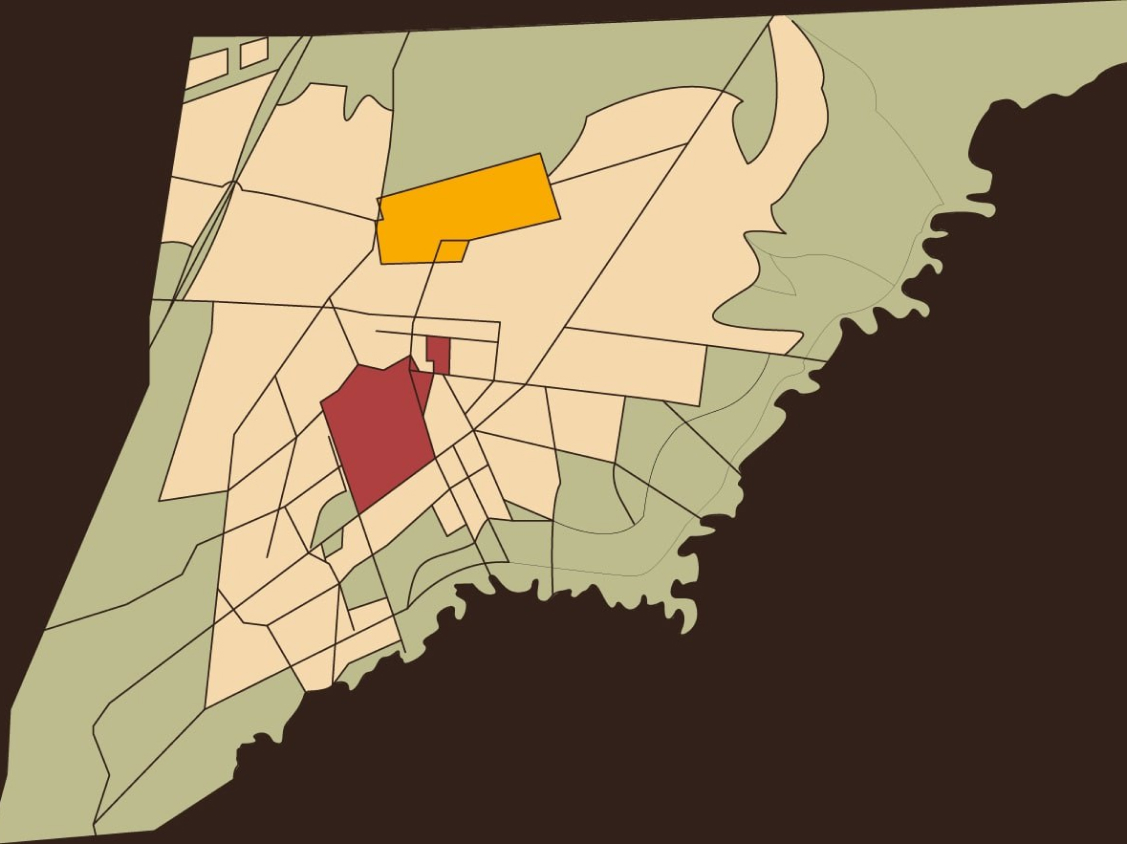
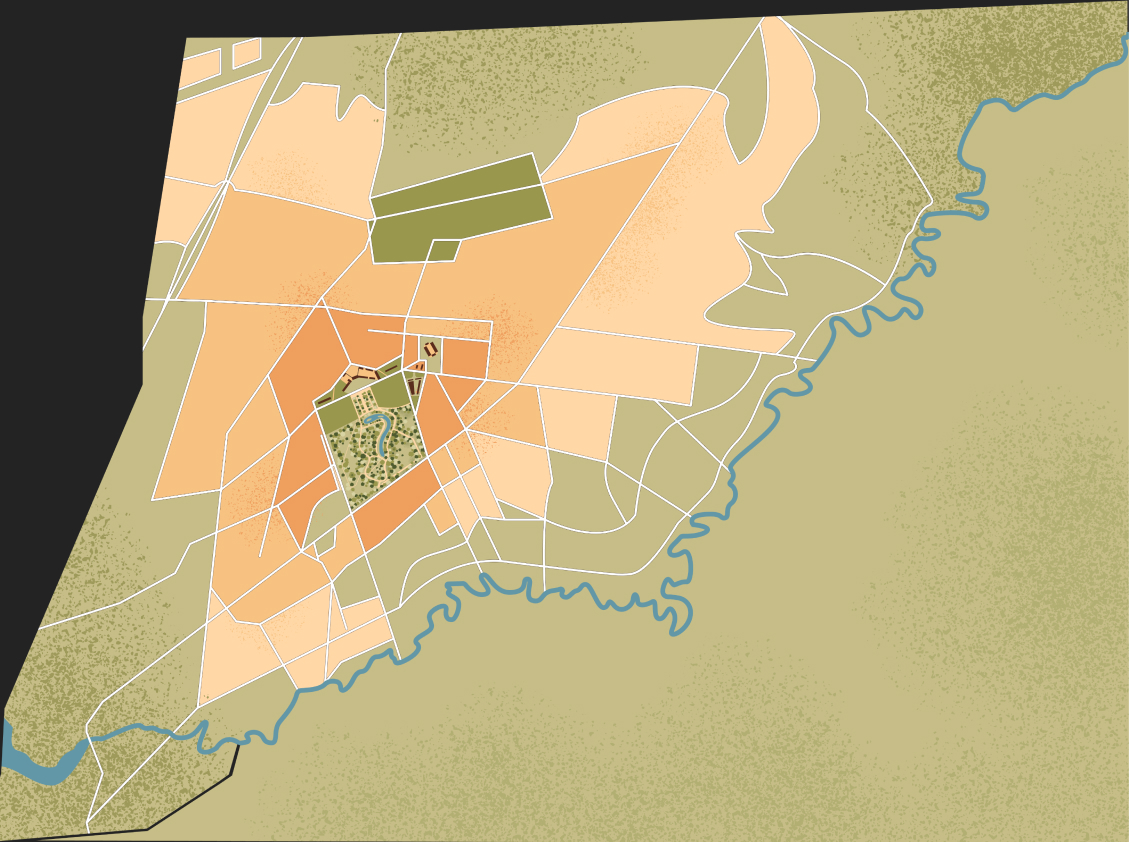
edit: (Map) -add audio guide and some styles

diff --git a/src/pages/Room.jsx b/src/pages/Room.jsx
@@ -3,11 +3,8 @@ import { styled } from 'styled-components';
 import AudioGuide from '../components/Room/AudioGuide';
 import Controls from '../components/Room/Controls';
 import ModelSelector from '../components/Room/ModelSelector';
-import FrameCard from '../components/Shared/FrameCard';
-import { ButtonTextStyle, H1 } from '../styles/textTags';
-import SvgSelector from '../components/Shared/SvgSelector';
-import { COLORS } from '../styles/variables';
 import Header from '../components/Shared/Header';
+import HeadphonesModal from '../components/Shared/HeadphonesModal';
 
 const Room = ({ data }) => {
   const [modalIsOpen, setModalIsOpen] = useState(false);
@@ -21,27 +18,17 @@ const Room = ({ data }) => {
   return (
     <RoomWr>
       <Header />
-
-      {modalIsOpen && <RoomBackdrop />}
-      <RoomModal $modalisopen={modalIsOpen}>
-        <FrameCard>
-          <RoomModalContent>
-            <H1>Включите, пожалуйста, наушники!</H1>
-            <SvgSelector svg='headphones' />
-            <ModalBtn onClick={() => handleModalChoice('yes')}>
-              <ModalBtnContent>хорошо</ModalBtnContent>
-            </ModalBtn>
-            <ModalBtn onClick={() => handleModalChoice('no')}>
-              <ModalBtnContent>нет, спасибо</ModalBtnContent>
-            </ModalBtn>
-          </RoomModalContent>
-        </FrameCard>
-      </RoomModal>
+      <HeadphonesModal modalIsOpen={modalIsOpen} handleModalChoice={handleModalChoice} />
       <RoomImgBlock img={data.bgImg} />
       <ModelSelector exhibits={data.exhibits} />
 
       <RoomMainBlock>
-        <AudioGuide audioSrc={data.audio} setModalIsOpen={setModalIsOpen} allowPlay={allowPlay} />
+        <AudioGuide
+          audioSrc={data.audio}
+          setModalIsOpen={setModalIsOpen}
+          allowPlay={allowPlay}
+          hasQuiz={true}
+        />
         <Controls background />
       </RoomMainBlock>
     </RoomWr>
@@ -53,15 +40,6 @@ const RoomWr = styled.div`
   position: relative;
   width: 100%;
   height: 100svh;
-`;
-
-const RoomBackdrop = styled.div`
-  height: 100%;
-  width: 100%;
-  background-color: ${COLORS.black};
-  opacity: 0.9;
-  position: absolute;
-  z-index: 98;
 `;
 
 const RoomImgBlock = styled.div`
@@ -81,39 +59,5 @@ const RoomMainBlock = styled.div`
 //   position: absolute;
 //   z-index: 97;
 // `;
-
-const RoomModal = styled.div`
-  position: absolute;
-  top: 50%;
-  left: 50%;
-  transform: ${({ $modalisopen }) => `translate(-50%, -50%) scale(${$modalisopen ? '1' : '0'})`};
-  transition: transform 0.2s;
-  z-index: 99;
-`;
-
-const RoomModalContent = styled.div`
-  display: flex;
-  flex-direction: column;
-  justify-content: center;
-  align-items: center;
-  gap: 5.9vw;
-`;
-
-const ModalBtn = styled.button`
-  padding: 0.77vw;
-  background-color: ${COLORS.sand};
-  margin-bottom: 0.77vw;
-`;
-
-const ModalBtnContent = styled.div`
-  ${ButtonTextStyle};
-  padding: 1.92vw 5.9vw;
-  display: flex;
-  justify-content: center;
-  align-items: center;
-  border: 0.3vw solid ${COLORS.grey};
-  background-color: ${COLORS.sand};
-  height: 10.26vw;
-`;
 
 export default Room;

diff --git a/src/pages/Map.jsx b/src/pages/Map.jsx
@@ -5,25 +5,44 @@ import CustomButton from '../components/Shared/CustomButton';
 import { Link } from 'react-router-dom';
 import { H1Style, P1Style } from '../styles/textTags';
 import MapSection from '../components/Map/MapSection';
-import SvgSelector from '../components/Shared/SvgSelector';
+import mapGuide from '../assets/rooms/first/guide.mp3';
+
+import HeadphonesModal from '../components/Shared/HeadphonesModal';
+import AudioGuide from '../components/Room/AudioGuide';
 
 const Map = () => {
   const [selectedPoint, setSelectedPoint] = useState(null);
+
+  const [modalIsOpen, setModalIsOpen] = useState(false);
+  const [allowPlay, setAllowPlay] = useState(false);
 
   const handleDotClick = (point) => {
     setSelectedPoint(point);
   };
 
+  const handleModalChoice = (choice) => {
+    setModalIsOpen(false);
+    setAllowPlay(choice === 'yes');
+  };
+
   return (
     <MapWr>
-      <LogoWr>
-        <SvgSelector svg='elephantLogo' />
-      </LogoWr>
+      <HeadphonesModal modalIsOpen={modalIsOpen} handleModalChoice={handleModalChoice} />
+
       {selectedPoint && <Overlay onClick={() => setSelectedPoint(null)} />}
+
       <MapSection handleDotClick={handleDotClick} />
-      <Link to='/museum'>
-        <CustomButton type={'orange'}>в музей</CustomButton>
-      </Link>
+      <MapControls>
+        <AudioGuide
+          audioSrc={mapGuide}
+          setModalIsOpen={setModalIsOpen}
+          allowPlay={allowPlay}
+          hasQuiz={false}
+        />
+        <MapLink to='/museum'>
+          <CustomButton type={'orange'}>в музей</CustomButton>
+        </MapLink>
+      </MapControls>
 
       {selectedPoint && (
         <InfoSection>
@@ -37,16 +56,18 @@ const Map = () => {
 };
 
 const MapWr = styled.div`
+  position: relative;
   width: 100%;
   overflow: hidden;
   height: 100vh;
   height: 100svh;
-  padding-top: 30.77vw;
-  background-color: ${COLORS.brown};
+  background-color: ${COLORS.black};
   .map_wrapper {
     width: 100%;
+    height: 90%;
   }
   .map_wrapper_content {
+    height: 100%;
   }
 `;
 
@@ -56,6 +77,32 @@ const Title = styled.h1`
 
 const Info = styled.p`
   ${P1Style};
+`;
+
+const MapControls = styled.div`
+  position: absolute;
+  bottom: 0;
+  width: 100%;
+  height: 44vw;
+  background-color: ${COLORS.green};
+  border-radius: 6.15vw 6.15vw 0 0;
+`;
+
+const MapLink = styled(Link)`
+  position: absolute;
+  bottom: 8.21vw;
+  left: 50%;
+  transform: translateX(-50%);
+  width: 51.28vw;
+
+  div {
+    margin: 3px;
+    h2 {
+      display: flex;
+      justify-content: center;
+      align-items: center;
+    }
+  }
 `;
 
 const InfoSection = styled.div`
@@ -93,19 +140,6 @@ const Overlay = styled.div`
   height: 100%;
   background: rgba(0, 0, 0, 0.5);
   z-index: 10;
-`;
-
-const LogoWr = styled.div`
-  position: absolute;
-  top: 3.85vw;
-  left: 50%;
-  transform: translateX(-50%);
-  width: 57px;
-  height: 58px;
-  svg {
-    width: 100%;
-    height: 100%;
-  }
 `;
 
 export default Map;

diff --git a/src/components/Room/AudioGuide.jsx b/src/components/Room/AudioGuide.jsx
@@ -4,7 +4,7 @@ import { COLORS } from '../../styles/variables';
 import SvgSelector from '../Shared/SvgSelector';
 import { Link } from 'react-router-dom';
 
-const AudioGuide = ({ audioSrc, setModalIsOpen, allowPlay }) => {
+const AudioGuide = ({ audioSrc, setModalIsOpen, allowPlay, hasQuiz }) => {
   const audioRef = useRef(null);
   const [isPlaying, setIsPlaying] = useState(false);
   const [currentTime, setCurrentTime] = useState(0);
@@ -104,6 +104,7 @@ const AudioGuide = ({ audioSrc, setModalIsOpen, allowPlay }) => {
         <SvgSelector svg={isPlaying ? 'pause' : 'play'} />
       </PlayButton>
       <ProgressContainer
+        $hasquiz={hasQuiz}
         onClick={handleProgressClick}
         onMouseDown={startDrag}
         onMouseMove={handleDrag}
@@ -114,10 +115,13 @@ const AudioGuide = ({ audioSrc, setModalIsOpen, allowPlay }) => {
       >
         <ProgressBar style={{ width: `${(currentTime / duration) * 100}%` }} />
       </ProgressContainer>
-      <QuizButton to='quiz'>
-        <SvgSelector svg='quiz' />
-      </QuizButton>
-      <TimeDisplay>
+      {hasQuiz && (
+        <QuizButton to='quiz'>
+          <SvgSelector svg='quiz' />
+        </QuizButton>
+      )}
+
+      <TimeDisplay $hasquiz={hasQuiz}>
         <span>{formatTime(currentTime)}</span> / {formatTime(duration)}
       </TimeDisplay>
       <audio ref={audioRef} src={audioSrc} />
@@ -168,10 +172,12 @@ const ProgressContainer = styled.div`
   align-items: center;
   height: 1.4vw;
   background-color: ${COLORS.white};
-  margin: 0 6.7vw 0;
+
   cursor: pointer;
-  width: 68vw;
+
   padding: 0 0.2vw;
+  width: ${({ $hasquiz }) => ($hasquiz ? '68vw' : '80vw')};
+  margin: ${({ $hasquiz }) => ($hasquiz ? '0 6.7vw 0' : '0')};
 `;
 
 const ProgressBar = styled.div`
@@ -189,7 +195,7 @@ const TimeDisplay = styled.span`
   line-height: normal;
   white-space: nowrap;
   bottom: -2vw;
-  right: 21.5vw;
+  right: ${({ $hasquiz }) => ($hasquiz ? '21.5vw' : '5vw')};
   span {
     color: ${COLORS.yellow};
   }

diff --git a/src/components/Shared/HeadphonesModal.jsx b/src/components/Shared/HeadphonesModal.jsx
@@ -1,0 +1,73 @@
+import React from 'react';
+import { ButtonTextStyle, H1 } from '../../styles/textTags';
+import SvgSelector from './SvgSelector';
+import { styled } from 'styled-components';
+import { COLORS } from '../../styles/variables';
+import FrameCard from './FrameCard';
+
+const HeadphonesModal = ({ modalIsOpen, handleModalChoice }) => {
+  return (
+    <>
+      {modalIsOpen && <RoomBackdrop />}
+      <RoomModal $modalisopen={modalIsOpen}>
+        <FrameCard>
+          <RoomModalContent>
+            <H1>Включите, пожалуйста, наушники!</H1>
+            <SvgSelector svg='headphones' />
+            <ModalBtn onClick={() => handleModalChoice('yes')}>
+              <ModalBtnContent>хорошо</ModalBtnContent>
+            </ModalBtn>
+            <ModalBtn onClick={() => handleModalChoice('no')}>
+              <ModalBtnContent>нет, спасибо</ModalBtnContent>
+            </ModalBtn>
+          </RoomModalContent>
+        </FrameCard>
+      </RoomModal>
+    </>
+  );
+};
+
+const RoomBackdrop = styled.div`
+  height: 100%;
+  width: 100%;
+  background-color: ${COLORS.black};
+  opacity: 0.9;
+  position: absolute;
+  z-index: 98;
+`;
+
+const RoomModal = styled.div`
+  position: absolute;
+  top: 50%;
+  left: 50%;
+  transform: ${({ $modalisopen }) => `translate(-50%, -50%) scale(${$modalisopen ? '1' : '0'})`};
+  transition: transform 0.2s;
+  z-index: 99;
+`;
+
+const RoomModalContent = styled.div`
+  display: flex;
+  flex-direction: column;
+  justify-content: center;
+  align-items: center;
+  gap: 5.9vw;
+`;
+
+const ModalBtn = styled.button`
+  padding: 0.77vw;
+  background-color: ${COLORS.sand};
+  margin-bottom: 0.77vw;
+`;
+
+const ModalBtnContent = styled.div`
+  ${ButtonTextStyle};
+  padding: 1.92vw 5.9vw;
+  display: flex;
+  justify-content: center;
+  align-items: center;
+  border: 0.3vw solid ${COLORS.grey};
+  background-color: ${COLORS.sand};
+  height: 10.26vw;
+`;
+
+export default HeadphonesModal;

diff --git a/src/components/Map/MapSection.jsx b/src/components/Map/MapSection.jsx
@@ -14,7 +14,7 @@ const MapSection = ({ handleDotClick }) => {
 
           {MAP_POINTS.map((point, index) => (
             <Dot
-              key={point.id}
+              key={index}
               onClick={() => handleDotClick(point)}
               style={{ top: `${point.top}px`, left: `${point.left}px` }}
             />
@@ -26,10 +26,8 @@ const MapSection = ({ handleDotClick }) => {
 };
 
 const ZoomableMap = styled.div`
-  background-color: ${COLORS.brown};
-  width: 900px;
-  height: 700px;
-  font-size: 70px;
+  width: 240vw;
+  height: 230vw;
 `;
 
 const Dot = styled.div`

diff --git a/src/components/Map/MapAudio.jsx b/src/components/Map/MapAudio.jsx
@@ -1,0 +1,10 @@
+import React, { useState } from 'react';
+
+import AudioGuide from '../Room/AudioGuide';
+import HeadphonesModal from '../Shared/HeadphonesModal';
+
+const MapAudio = () => {
+  return <></>;
+};
+
+export default MapAudio;
